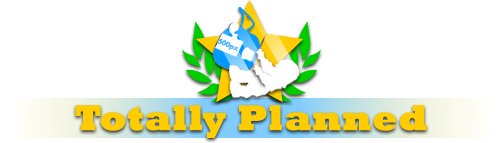
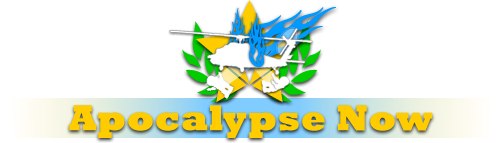
+ Apocalypse Now: Grafik eingefügt. * Script gesäubert.

Changed region(s): [[0.1195, 0.0559, 0.8665, 1.0]]

diff --git a/ModernCombatFINALTRY.c4d/Libraries.c4d/Modifications.c4d/System.c4g/Appendto-Clonk.c b/ModernCombatFINALTRY.c4d/Libraries.c4d/Modifications.c4d/System.c4g/Appendto-Clonk.c
@@ -447,9 +447,10 @@ protected func DoPoints()
         {
           //Achievement-Fortschritt (Get to the Chopper)
           DoAchievementProgress(1,AC18,killer);
-          
+
           if((GetDamage(Contained(pClonk)) >= Contained(pClonk)->MaxDamage() * 3 / 4))
-          	DoAchievementProgress(1, AC57, killer);
+            //Achievement-Fortschritt (Apocalypse Now)
+            DoAchievementProgress(1, AC57, killer);
         }
         if(Contained(pClonk)->~GetPilot())
         {

diff --git a/ModernCombatFINALTRY.c4d/Vehicles.c4d/BlackHawk.c4d/Script.c b/ModernCombatFINALTRY.c4d/Vehicles.c4d/BlackHawk.c4d/Script.c
@@ -1172,7 +1172,7 @@ public func OnDmg(int iDmg, int iType)
 public func OnDamage(int iDamage)
 {
   //Reparaturen haben keine Auswirkung
-  if(iDamage < 1)	return;
+  if(iDamage < 1) return;
 
   //Schaden dem HUD melden
   if(hud)

diff --git a/ModernCombatFINALTRY.c4d/Rules.c4d/Rewards.c4d/Achievements.c4d/57ApocalypseNow.c4d/Script.c b/ModernCombatFINALTRY.c4d/Rules.c4d/Rewards.c4d/Achievements.c4d/57ApocalypseNow.c4d/Script.c
@@ -1,4 +1,4 @@
-/*-- Totally Planned --*/
+/*-- Apocalypse Now --*/
 
 #strict 2
 #include ACHV
